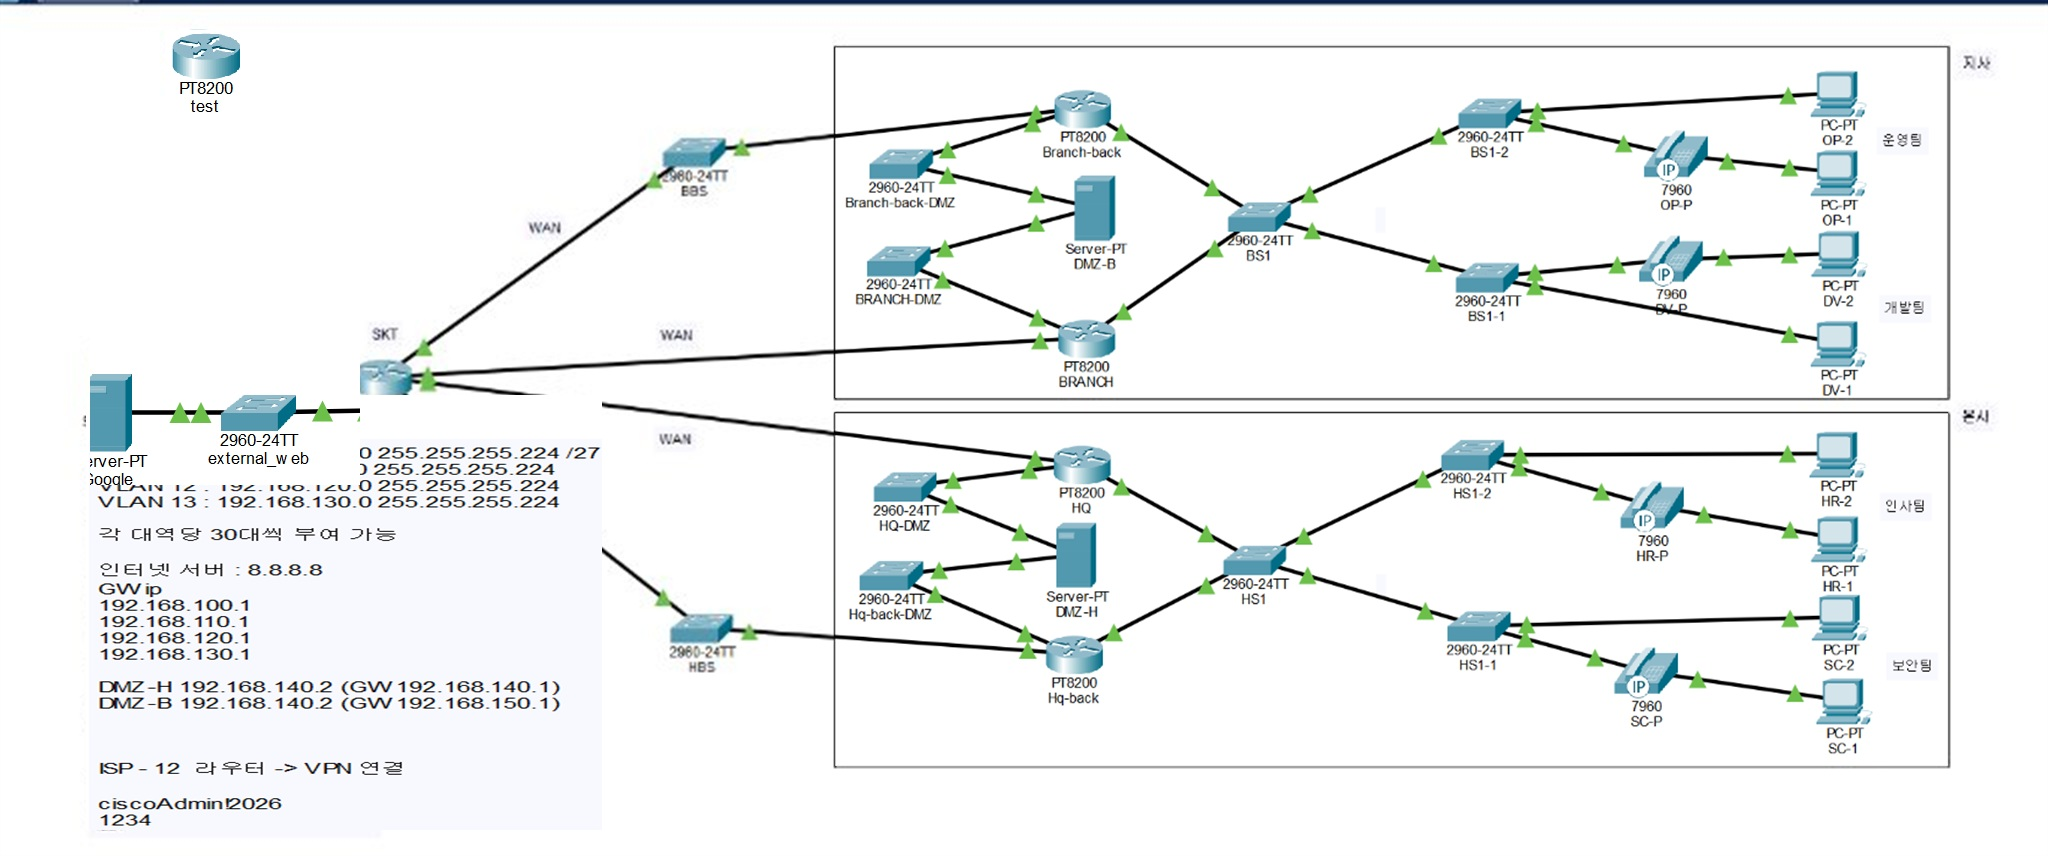
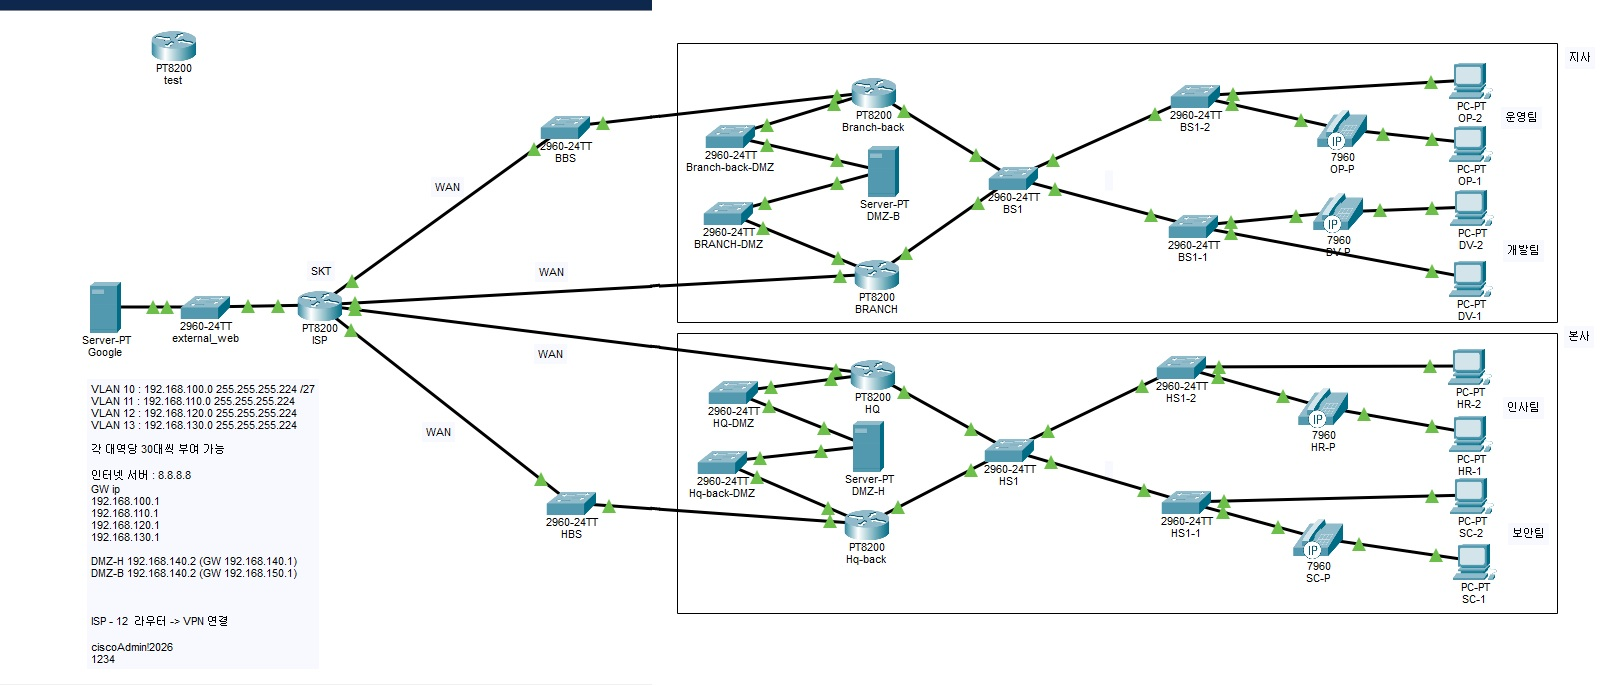
사진보정3

diff --git a/index.html b/index.html
@@ -509,7 +509,7 @@
         </div>
 
         <div class="project-img-container" id="topologyTrigger" title="클릭하여 원본 및 구간별 상세 확대보기">
-          <img src="assets/network-topology.jpg" alt="Sentra 사내망 다계층 접근통제 시스템 - 본사-지사 고가용성 기업망 네트워크 토폴로지 구성도">
+          <img src="assets/network-topology.jpg?v=2" alt="Sentra 사내망 다계층 접근통제 시스템 - 본사-지사 고가용성 기업망 네트워크 토폴로지 구성도">
           <span class="zoom-badge">🔍 클릭하여 확대</span>
           <div class="project-img-caption">▲ 직접 전담 설계 및 구축한 본사(HQ) - 지사(BRANCH) 고가용성 이중화 기업망 토폴로지 (클릭 시 원본 및 구간별 확대)
           </div>
@@ -600,7 +600,7 @@
     <!-- 인터랙티브 패킷트레이서 캔버스 뷰포트 -->
     <div class="pt-viewport" id="ptViewport">
       <div class="pt-canvas" id="ptCanvas">
-        <img id="modalImg" src="assets/network-topology-hd.png" alt="Cisco Packet Tracer 엔터프라이즈 고해상도 토폴로지 구성도">
+        <img id="modalImg" src="assets/network-topology-hd.png?v=2" alt="Cisco Packet Tracer 엔터프라이즈 고해상도 토폴로지 구성도">
       </div>
     </div>
 
@@ -627,8 +627,8 @@
 
       if (!trigger || !modal || !viewport || !canvas) return;
 
-      const imgWidth = 2048;
-      const imgHeight = 856;
+      const imgWidth = 1603;
+      const imgHeight = 685;
 
       let scale = 1;
       let translateX = 0;
@@ -778,19 +778,19 @@
           if (target === "all") {
             fitToScreen();
           } else if (target === "wan") {
-            scale = 1.6;
+            scale = 1.4;
             translateX = 40;
-            translateY = (vh - 856 * scale) / 2;
+            translateY = (vh - 685 * scale) / 2;
             updateTransform(true);
           } else if (target === "branch") {
-            scale = 1.6;
-            translateX = vw - (2048 * scale) + 50;
+            scale = 1.4;
+            translateX = vw - (1603 * scale) + 20;
             translateY = 40;
             updateTransform(true);
           } else if (target === "hq") {
-            scale = 1.6;
-            translateX = vw - (2048 * scale) + 50;
-            translateY = vh - (856 * scale) - 40;
+            scale = 1.4;
+            translateX = vw - (1603 * scale) + 20;
+            translateY = vh - (685 * scale) - 30;
             updateTransform(true);
           }
         });
